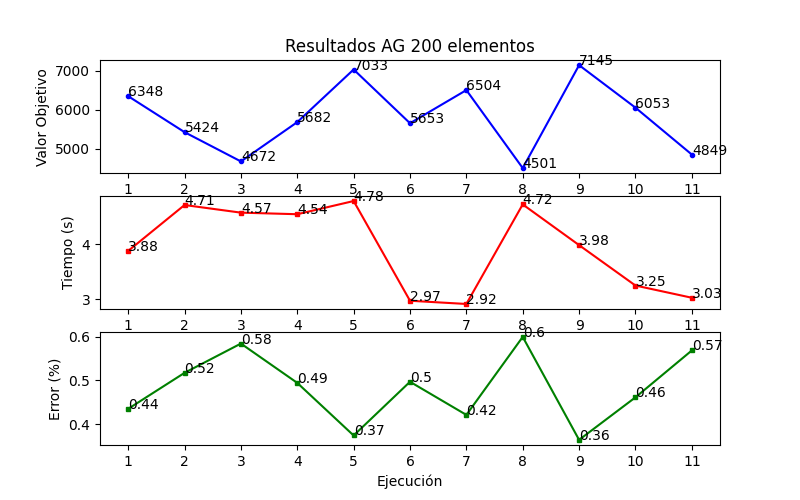
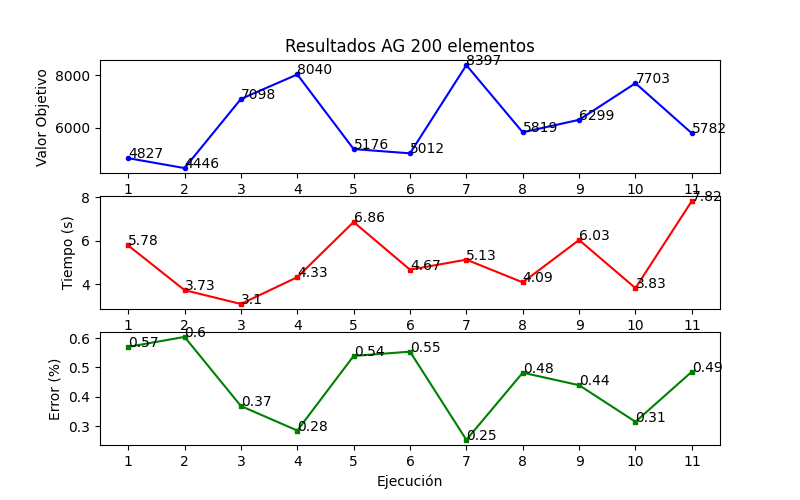
Auto stash before merge of "main" and "origin/main"

diff --git a/funciones/genetico.py b/funciones/genetico.py
@@ -22,18 +22,15 @@ def leeArchivo(nombre):
 # Funci�n que construye una soluci�n inicial aleatoria 
 def solucionInicialAleatoria(elementos,matriz):
     #solucionInicial =  [random.randint(0,1) for b in range(1,elementos+1)]
-    solucion = []
+    solucion = [0]*elementos
     peso = 0
-    for i in range(elementos):
-        valor = random.randint(0,1)
-        if valor == 1:
-            if peso + matriz[i][1] <=  matriz[0][1]:
-                solucion.append(valor)
-                peso = peso + matriz[i][1]
-            else:
-                solucion.append(0)
-        else:
-            solucion.append(valor)
+    porRevisar = [index for index, element in enumerate(solucion) if element == 0]
+    while len(porRevisar) != 0:
+        posicion = random.choice(porRevisar)
+        if peso + matriz[posicion][1] <=  matriz[0][1]:
+            solucion[posicion] = 1
+            peso = peso + matriz[posicion + 1][1]
+        porRevisar.remove(posicion)
     return solucion
 
 def calcularPesoMochila(solucion,matriz):
@@ -98,15 +95,15 @@ def cruzamiento(conjunto):
 
 def mutacion(sol,probabilidad):
     nuevaSol = []
-    for i in range(0,len(sol)):
+    items = len(sol)
+    for i in range(0,items):
         numeroAleatorio = random.random()
-
         if numeroAleatorio > probabilidad:
             if sol[i] == 1:
                 valor = 0
             else:
                 valor = 1
-        else: 
+        else:
             valor = sol[i]
 
         nuevaSol.append(valor)
@@ -138,7 +135,7 @@ def nuevaPoblacion(soluciones, valores, matriz):
     hijosMutados = []
     i = 0
     while len(hijosMutados) < 2:
-        mutado = mutacion(hijos[i],0.8)
+        mutado = mutacion(hijos[i],0.7)
         if solucionValida(mutado,matriz):
             hijosMutados.append(mutado)
             i = i + 1
@@ -162,13 +159,13 @@ def busquedaLocal(solucion, matriz):
                 if(matriz[1 + indice][0] > adicion):
                     indiceObjeto = indice
                     adicion = matriz[1 + indice][0]
-            solAux[indice] = 0    
+            solAux[indice] = 0
         if adicion == 0:
             agrega = False
         else: 
             solAux[indiceObjeto] = 1
             adicion = 0
-            indiceObjeto = 0  
+            indiceObjeto = 0
         beneficio = funcionObjetivo(matriz,solAux)
     return solAux,beneficio
 

diff --git a/main.py b/main.py
@@ -89,7 +89,7 @@ if __name__ == "__main__":
             print(series.describe())
             
             i = i + 1
-        plt.show()
+       # plt.show()
 
     else:
         print('Instrucciones de uso:')
